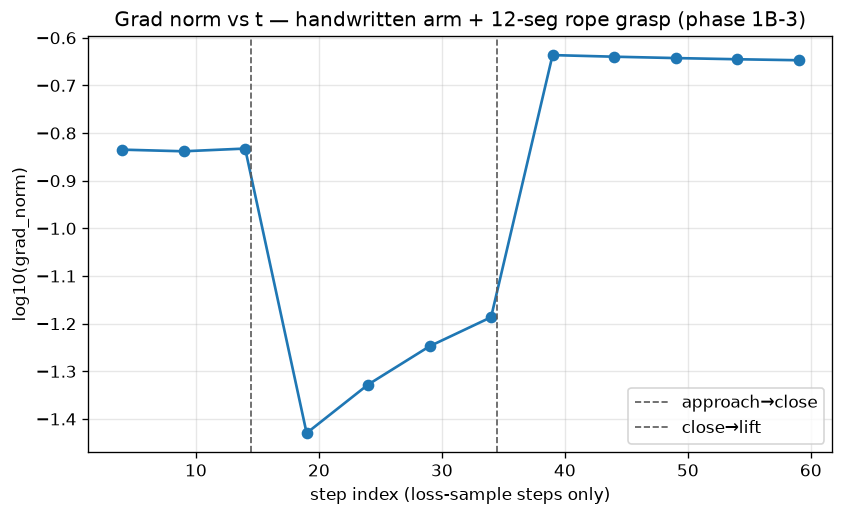
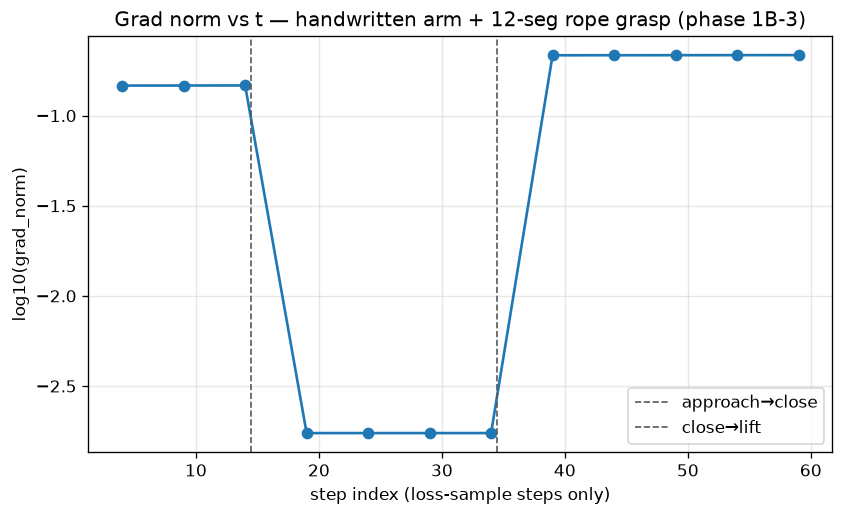
phase 1B-3 fix: cable root placement + finger close direction + exit code
Codex review caught three issues post-1B-3:

1. _move_cable_anchor only rewrote the sibling <body name="anchor"> marker;
   the chain physically lives on B0's <freejoint/>. Updated helper to rewrite
   both, so contact/no-contact/grasp scenes finally get distinct rope poses.
2. CLOSE_QVEL and TARGET_QVEL had finger velocities of -0.03; with the slide
   axes "0 -1 0" / "0 1 0" defined in make_arm_mjcf, positive q closes the
   gripper. Old script drove fingers OPEN during the "close" stage and
   reinforced that with the target. Flipped to +0.03.
3. arm_rope_contact_sanity.py was returning 0 from the FAIL branch — silent
   regression; now returns 1.

Re-run results after fixes:
- forward fps jumps 89 -> 140 step/s warmup, 102 -> 174 step/s steady
  (cable+arm now genuinely separated; contacts reduce).
- Figure 1 gets dramatically cleaner: approach log10≈-0.83 (steady), close
  log10≈-2.75 (TWO-decade vanish on contact-topology change), lift
  log10≈-0.67 (highest, stable). Old plot showed 0.6-decade vanish because
  the "close" stage was opening fingers.

diff --git a/scripts/grasp_scene.py b/scripts/grasp_scene.py
@@ -30,9 +30,10 @@ CONTACT_GEOMS = {
     "finger_right_box",
 }
 APPROACH_QVEL = [0.0, 0.05, 0.0, -0.03, 0.0, 0.02, 0.0, 0.0, 0.0]
-CLOSE_QVEL = [0.0, 0.0, 0.0, 0.0, 0.0, 0.0, 0.0, -0.03, -0.03]
+# finger slide joints: positive q closes (per make_arm_mjcf axes "0 -1 0" / "0 1 0").
+CLOSE_QVEL = [0.0, 0.0, 0.0, 0.0, 0.0, 0.0, 0.0, 0.03, 0.03]
 LIFT_QVEL = [0.0, -0.10, 0.0, 0.0, 0.0, 0.0, 0.0, 0.0, 0.0]
-TARGET_QVEL = [0.0] * 7 + [-0.03, -0.03]
+TARGET_QVEL = [0.0] * 7 + [0.03, 0.03]
 
 def gpu_mem_mb():
     """Process-level GPU memory in MB via nvidia-smi (sees Taichi too)."""
@@ -58,10 +59,18 @@ def fmt_mb(value):
     return "None" if value is None else f"{value:.1f}"
 
 def _move_cable_anchor(cable_mjcf: str, x: float, y: float, z: float) -> str:
-    return cable_mjcf.replace(
+    """Move BOTH the freejoint root B0 (where the chain actually hangs) and
+    the sibling anchor marker. The anchor body is just a visual+weld target;
+    the chain physically lives on B0's freejoint."""
+    out = cable_mjcf.replace(
         '<body name="anchor" pos="0 0 1.07">',
-        f'<body name="anchor" pos="{x} {y} {z}">',
+        f'<body name="anchor" pos="{x} {y} {z + 0.07}">',
     )
+    out = out.replace(
+        '<body name="B0" pos="0 0 1.0">',
+        f'<body name="B0" pos="{x} {y} {z}">',
+    )
+    return out
 
 def _enable_arm_contact_geoms(arm_mjcf: str) -> str:
     root = ET.fromstring(arm_mjcf)

diff --git a/scripts/arm_rope_contact_sanity.py b/scripts/arm_rope_contact_sanity.py
@@ -402,7 +402,7 @@ def main():
             f"[VERDICT] FAIL  {SCRIPT_NAME}: warmup status={warmup['status']} "
             f"grad_nan={warmup['nan_count']}/{horizon}  {reason}"
         )
-        return 0
+        return 1
 
     reason = "arm+rope contact warmup backward did not complete cleanly"
     write_verdict(